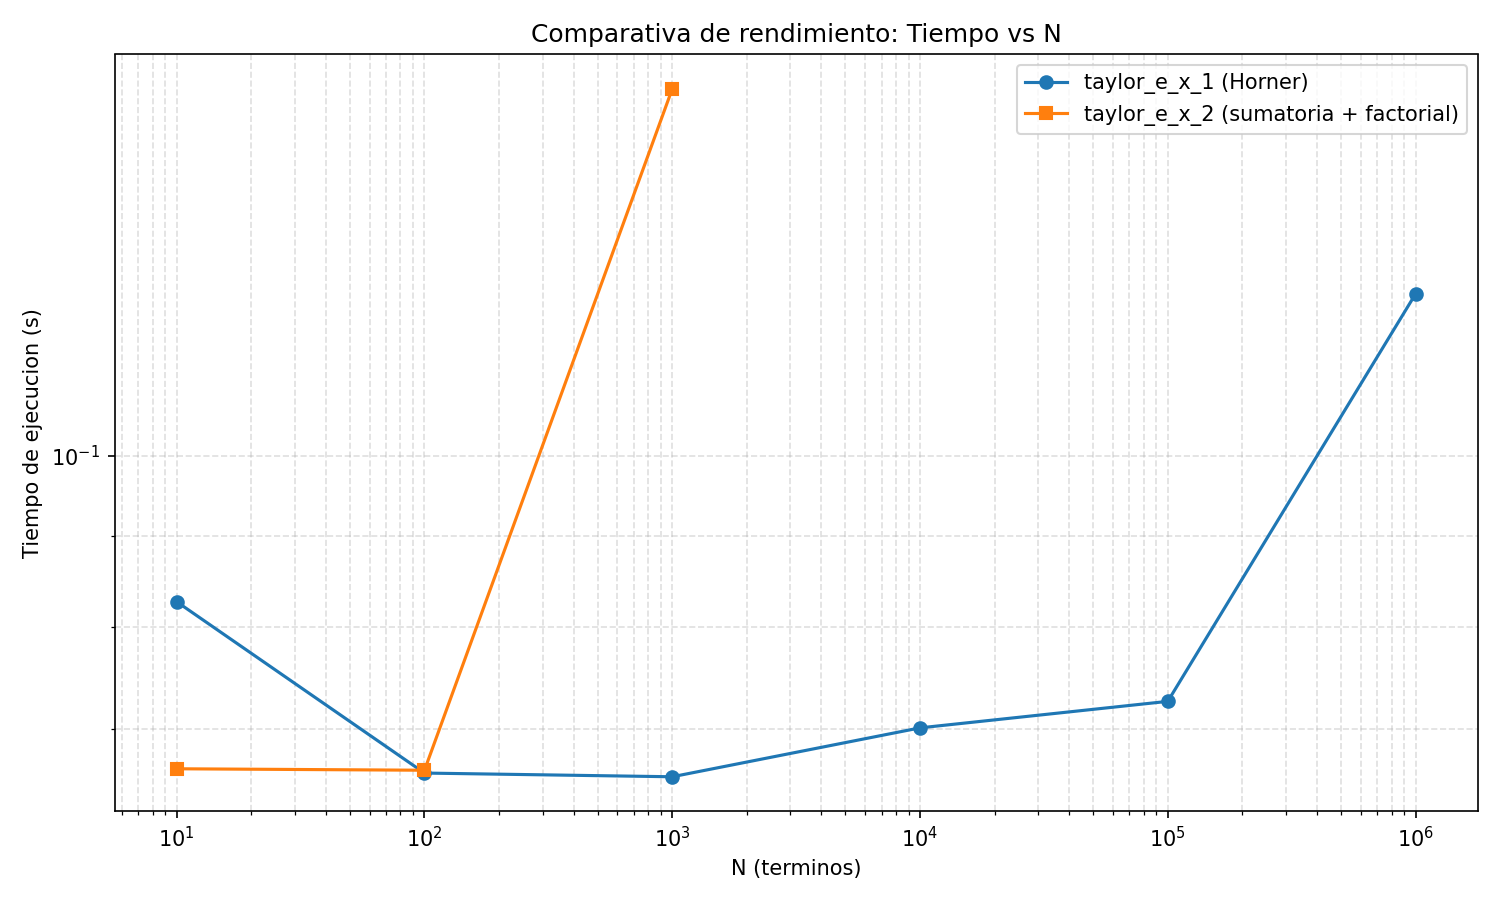
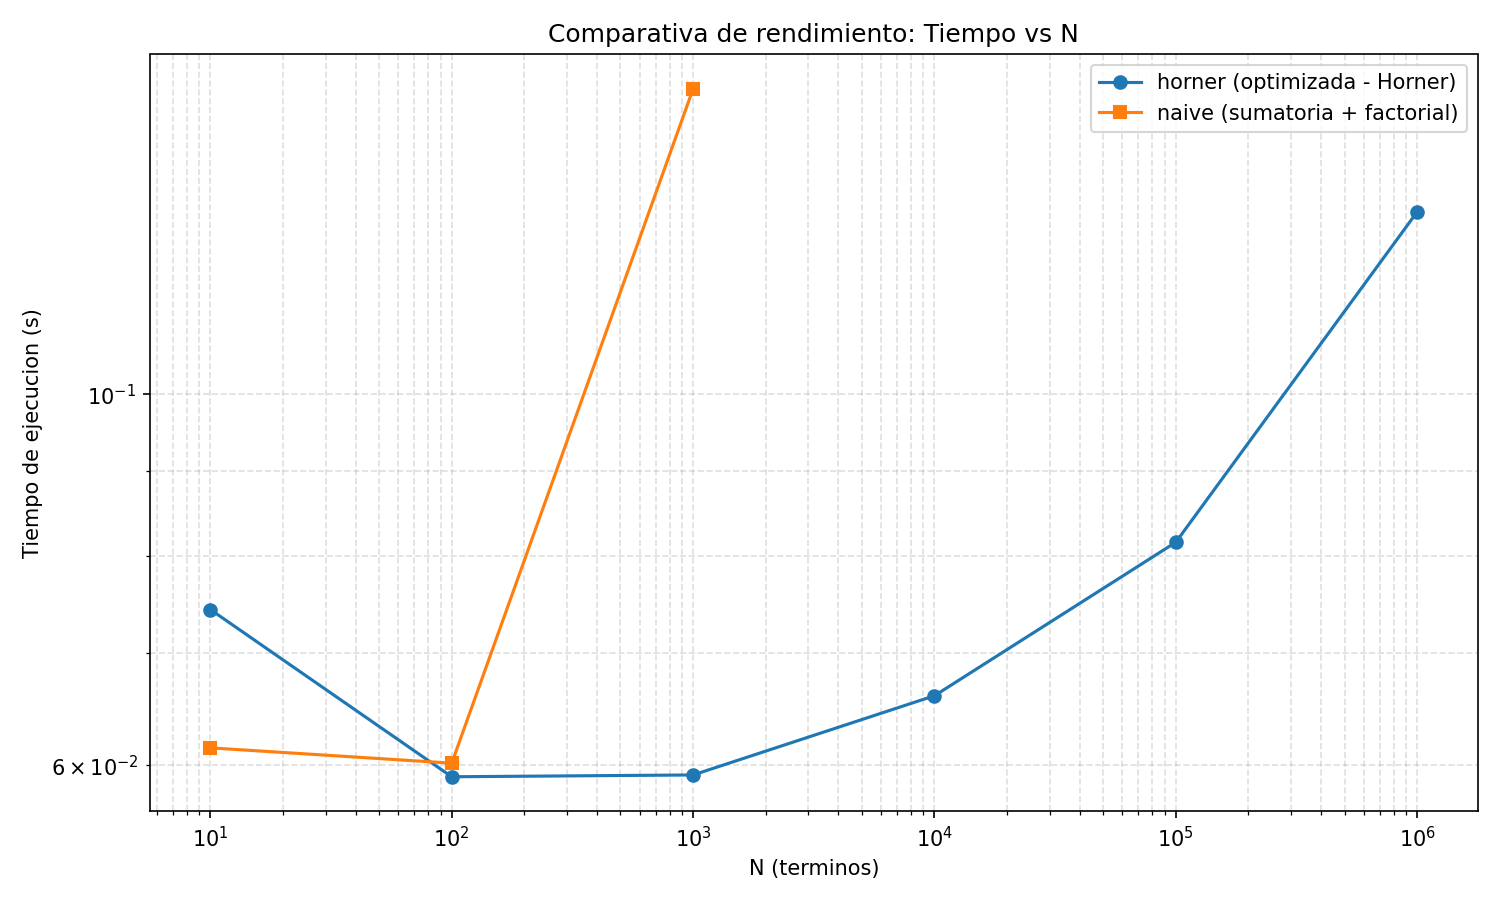
Refactor Taylor series functions and remove deprecated version1.py; update benchmark analysis and results

Changed region(s): [[0.0307, 0.0311, 0.9813, 0.9333], [0.4907, 0.9333, 0.5827, 0.9956], [0.6133, 0.9022, 0.644, 0.9333]]

diff --git a/benchmark_analysis.py b/benchmark_analysis.py
@@ -4,7 +4,7 @@ import multiprocessing as mp
 import time
 from pathlib import Path
 
-from version1 import taylor_e_x_1, taylor_e_x_2
+from taylor import taylor_e_x_horner, taylor_e_x_naive
 
 
 X_VALUE = 4
@@ -74,7 +74,7 @@ def write_csv(rows):
 
 def print_summary(rows):
     print("Resumen de resultados:")
-    print("N | t1_time(s) | t1_rel_error | t2_time(s) | t2_rel_error | t2_status")
+    print("N | horner_time(s) | horner_rel_error | naive_time(s) | naive_rel_error | naive_status")
     for r in rows:
         t1_rel = f"{r['t1_rel_error']:.3e}" if r["t1_rel_error"] is not None else "-"
         t2_rel = f"{r['t2_rel_error']:.3e}" if r["t2_rel_error"] is not None else "-"
@@ -94,9 +94,9 @@ def save_plot(rows, output_file, title):
     t2_times = [r["t2_time"] for r in rows if r["t2_status"] == "ok"]
 
     plt.figure(figsize=(10, 6))
-    plt.plot(ns_1, t1_times, marker="o", label="taylor_e_x_1 (Horner)")
+    plt.plot(ns_1, t1_times, marker="o", label="horner (optimizada - Horner)")
     if ns_2:
-        plt.plot(ns_2, t2_times, marker="s", label="taylor_e_x_2 (sumatoria + factorial)")
+        plt.plot(ns_2, t2_times, marker="s", label="naive (sumatoria + factorial)")
     plt.xscale("log")
     plt.yscale("log")
     plt.xlabel("N (terminos)")
@@ -147,8 +147,8 @@ def main():
                 "t2_status": "ok",
             }
 
-            print(f"  - Ejecutando taylor_e_x_1 para N={n}...", flush=True)
-            t1 = timed_call(taylor_e_x_1, X_VALUE, n, timeout_seconds=MAX_SECONDS_PER_CALL)
+            print(f"  - Ejecutando horner (optimizada) para N={n}...", flush=True)
+            t1 = timed_call(taylor_e_x_horner, X_VALUE, n, timeout_seconds=MAX_SECONDS_PER_CALL)
             row["t1_time"] = t1["time"]
             if t1["ok"]:
                 row["t1_value"] = t1["value"]
@@ -157,8 +157,8 @@ def main():
             else:
                 row["t1_status"] = t1["error"]
 
-            print(f"  - Ejecutando taylor_e_x_2 para N={n}...", flush=True)
-            t2 = timed_call(taylor_e_x_2, X_VALUE, n, timeout_seconds=MAX_SECONDS_PER_CALL)
+            print(f"  - Ejecutando naive (sumatoria) para N={n}...", flush=True)
+            t2 = timed_call(taylor_e_x_naive, X_VALUE, n, timeout_seconds=MAX_SECONDS_PER_CALL)
             row["t2_time"] = t2["time"]
             if t2["ok"]:
                 row["t2_value"] = t2["value"]

diff --git a/taylor.py b/taylor.py
@@ -1,0 +1,35 @@
+def taylor_e_x_horner(x,n):
+    sum = 1.0
+    for i in range(n,0,-1):
+        sum = 1 + x*sum/i
+    return sum
+
+def taylor_e_x_naive(x,n):
+    sum = 1.0
+    for i in range(1,n+1):
+        sum = sum + x**i/factorial(i)
+    return sum
+
+def taylor_e_x_optmizada(x, n_terms):
+    result = 1.0  # Primer término de e^x para i=0
+    term = 1.0
+    for i in range(1, n_terms):
+        # Actualización lineal del término
+        term *= (x / i) #
+        result += term
+    return result
+
+
+def factorial(n):
+    for i in range(n-1,0,-1):
+        n = n*i
+    return n
+
+
+
+
+if __name__ == "__main__":
+    print("Horner: ", taylor_e_x_horner(4,10))
+    print("Naive: ", taylor_e_x_naive(4,10))
+    print("Iterativa optimizada: ", taylor_e_x_optmizada(4,10))
+    print("Valor de e^4: ", 54.598150033144236)
